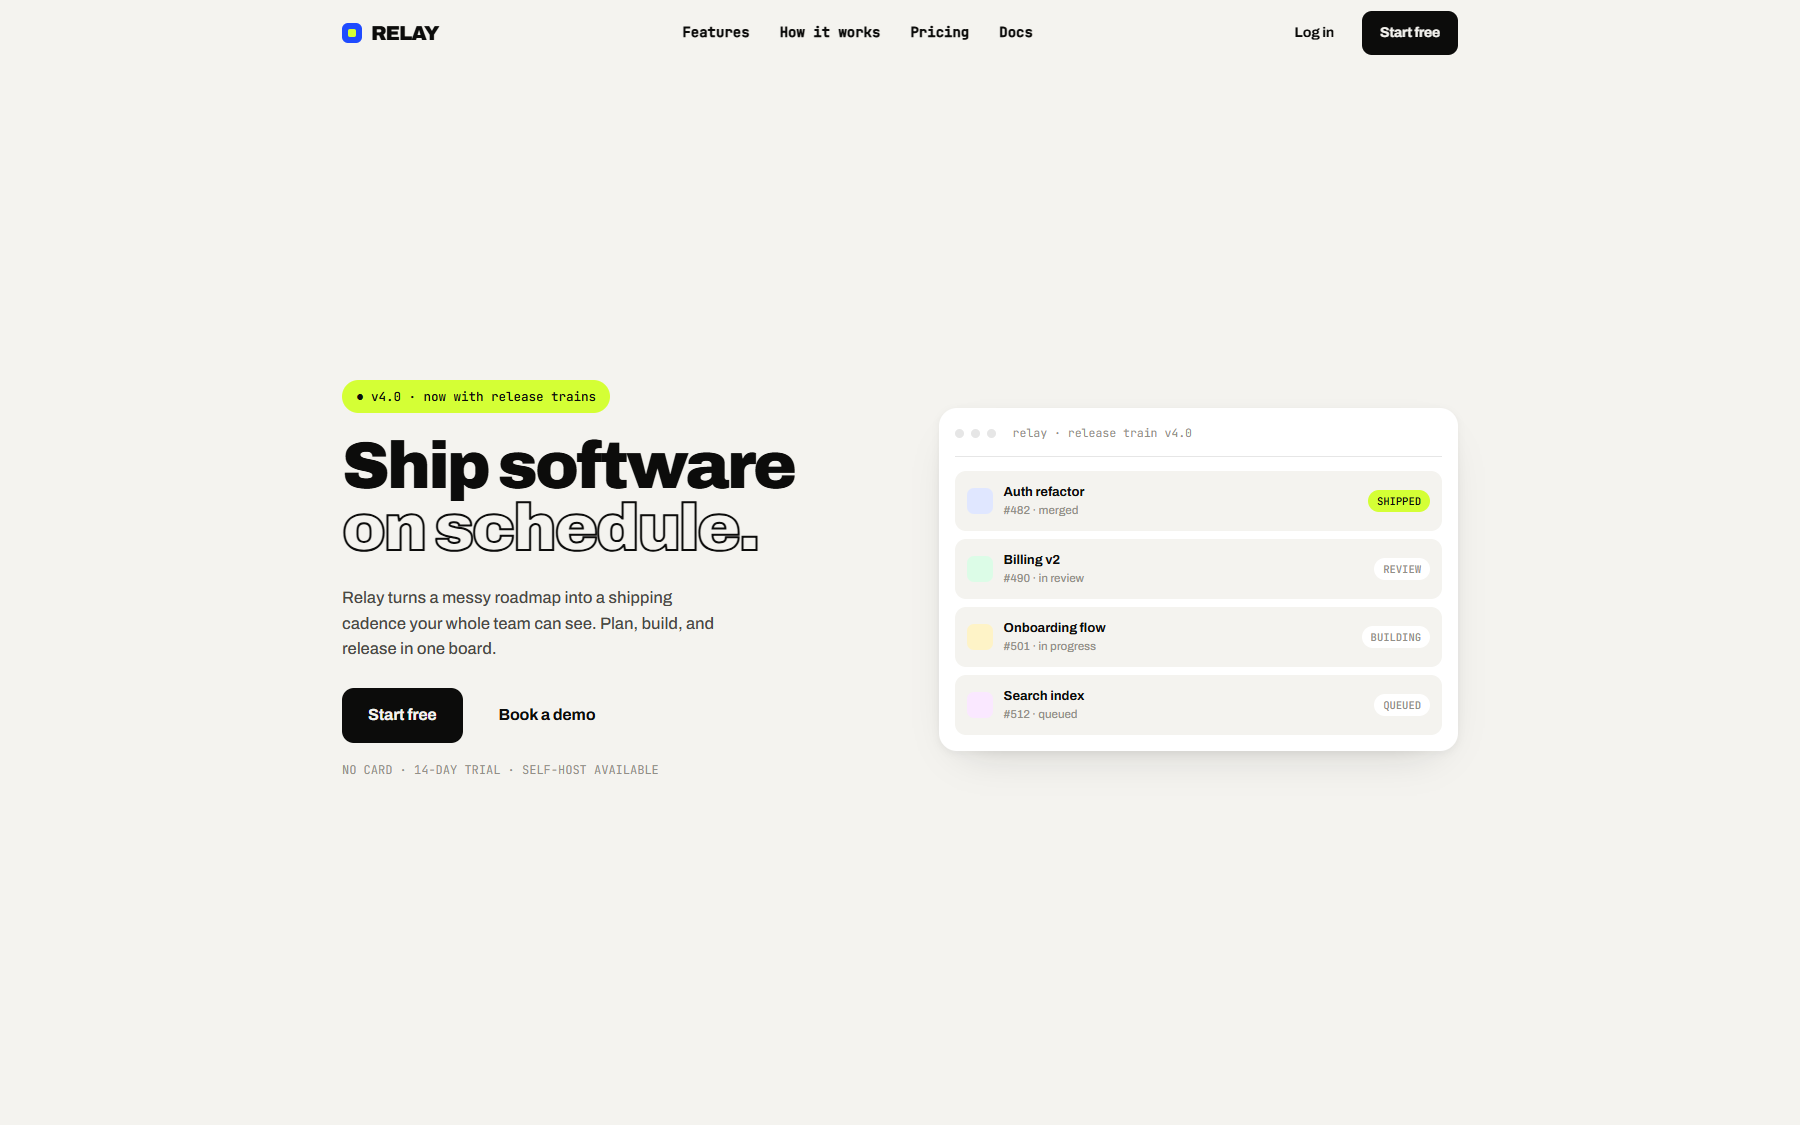
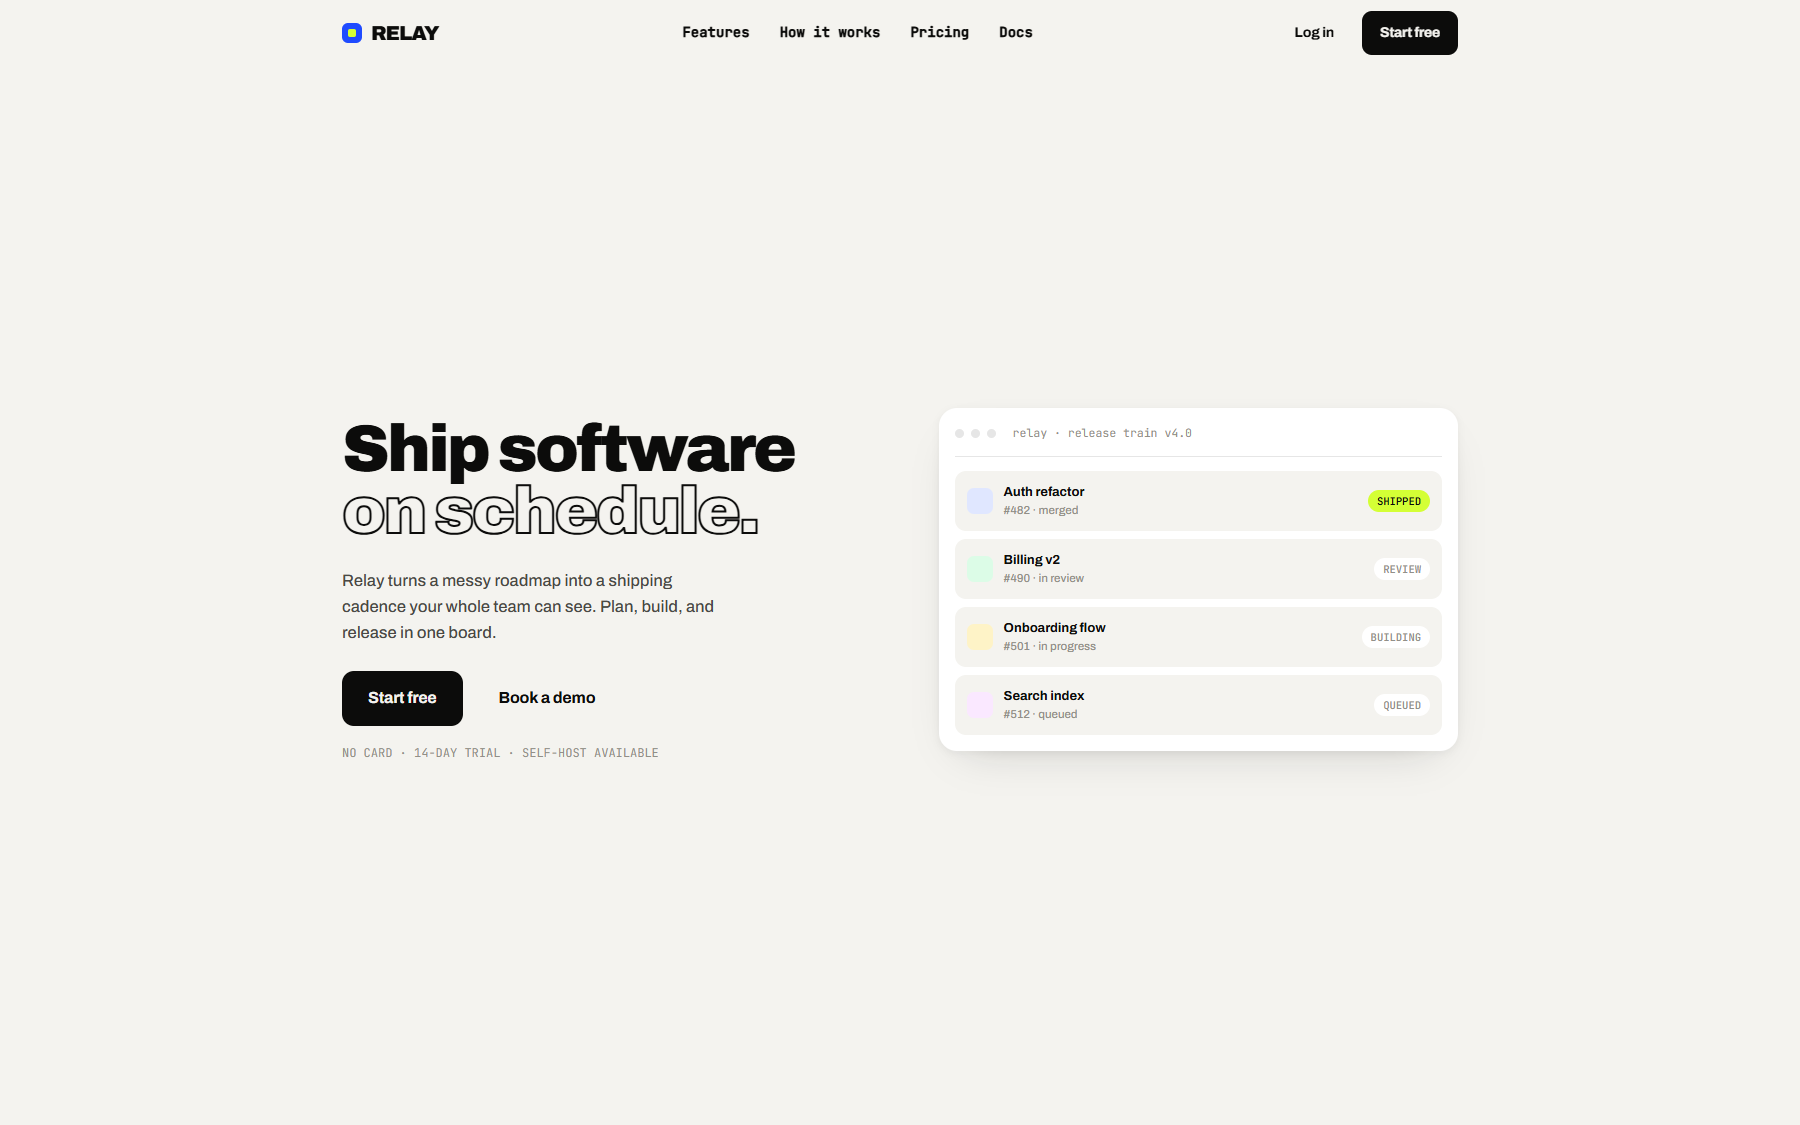
Remove announcement pills, label lines and em dashes across all templates; add TEMPLATE-STYLE.md

Changed region(s): [[0.1867, 0.3111, 0.4667, 0.6844]]

diff --git a/templates/pricing.html b/templates/pricing.html
@@ -3,7 +3,7 @@
 <head>
 <meta charset="UTF-8" />
 <meta name="viewport" content="width=device-width, initial-scale=1.0" />
-<title>Pricing — Section template</title>
+<title>Pricing | Section template</title>
 <meta name="description" content="A clean pricing section: monthly/yearly toggle, three tiers and a highlighted plan." />
 <link rel="preconnect" href="https://fonts.googleapis.com">
 <link rel="preconnect" href="https://fonts.gstatic.com" crossorigin>
@@ -38,7 +38,6 @@
     display:inline-flex;align-items:center;gap:7px;font-size:12px;font-weight:600;
     letter-spacing:.12em;text-transform:uppercase;color:var(--blue);margin-bottom:16px;
   }
-  .eyebrow i{width:6px;height:6px;border-radius:50%;background:var(--blue)}
   h2{font-weight:800;letter-spacing:-.04em;line-height:1.07;font-size:clamp(30px,4.4vw,52px);max-width:19ch;margin:0 auto}
   .sub{color:var(--body);font-size:clamp(14px,1.5vw,17px);line-height:1.65;max-width:52ch;margin:16px auto 0}
 
@@ -117,9 +116,9 @@
 <div class="wrap">
 
   <div class="head">
-    <span class="eyebrow"><i></i>Pricing</span>
+    <span class="eyebrow">Pricing</span>
     <h2>Simple pricing that scales with you</h2>
-    <p class="sub">Start free, upgrade when it clicks. No hidden fees, cancel any time — every plan includes the full editor and unlimited projects.</p>
+    <p class="sub">Start free, upgrade when it clicks. No hidden fees, cancel any time, and every plan includes the full editor and unlimited projects.</p>
 
     <div class="toggle" data-mode="monthly" id="toggle">
       <span class="slider"></span>

diff --git a/templates/pricing-relay.html b/templates/pricing-relay.html
@@ -3,7 +3,7 @@
 <head>
 <meta charset="UTF-8" />
 <meta name="viewport" content="width=device-width, initial-scale=1.0" />
-<title>Relay Pricing — Section template</title>
+<title>Relay Pricing | Section template</title>
 <meta name="description" content="A per-seat pricing section: three tiers, a highlighted plan and a clear feature list." />
 <link rel="preconnect" href="https://fonts.googleapis.com">
 <link rel="preconnect" href="https://fonts.gstatic.com" crossorigin>
@@ -43,8 +43,8 @@
   .btn--solid:hover{background:var(--blue)}
 
   section{padding:92px 0}
-  .label{font-family:'JetBrains Mono';font-size:12.5px;font-weight:500;letter-spacing:.08em;text-transform:uppercase;color:var(--dim);display:flex;align-items:center;gap:12px;margin-bottom:24px}
-  .label::before{content:"";width:30px;height:2px;background:var(--blue)}
+  .label{font-family:'JetBrains Mono';font-size:12.5px;font-weight:500;letter-spacing:.08em;text-transform:uppercase;color:var(--dim);margin-bottom:24px}
+  
   h2.sec{font-size:clamp(30px,4.4vw,54px);max-width:19ch;font-weight:900}
   .lede{margin-top:18px;color:var(--ink-2);font-size:16.5px;max-width:52ch}
 
@@ -80,7 +80,7 @@
   <div class="wrap">
     <p class="label">Pricing</p>
     <h2 class="sec">Simple, per-seat, no surprises.</h2>
-    <p class="lede">Start free for solo work. Pay per seat only when your team grows — cancel any time, no contracts.</p>
+    <p class="lede">Start free for solo work. Pay per seat only when your team grows, cancel any time, no contracts.</p>
 
     <div class="plans">
       <div class="plan">

diff --git a/templates/hero-lumen.html b/templates/hero-lumen.html
@@ -3,7 +3,7 @@
 <head>
 <meta charset="UTF-8" />
 <meta name="viewport" content="width=device-width, initial-scale=1.0" />
-<title>Lumen Hero — Section template</title>
+<title>Lumen Hero | Section template</title>
 <meta name="description" content="An editorial hero: serif display type, warm accent and a quiet browser mock." />
 <link rel="preconnect" href="https://fonts.googleapis.com">
 <link rel="preconnect" href="https://fonts.gstatic.com" crossorigin>
@@ -138,7 +138,6 @@
 <section class="hero">
   <div class="container hero__grid">
     <div>
-      <a href="#" class="badge"><span class="badge__dot"></span> v2.0, six pages, one token file</a>
       <h1 class="display">A landing kit<br>that stays <em>quiet.</em></h1>
       <p class="lede">Editorial typography, a disciplined token system, and no visual noise. Change one file and every page re-themes.</p>
       <div class="hero__cta">
@@ -171,8 +170,8 @@
   function setTheme(name){
     root.setAttribute('data-theme', name);
     icos.forEach(function(s){ s.classList.toggle('show', s.dataset.ico === name); });
-    btn.title = 'Theme: ' + name + ' — click to change';
-    btn.setAttribute('aria-label', 'Theme: ' + name + ' — click to change');
+    btn.title = 'Theme: ' + name + ' (click to change)';
+    btn.setAttribute('aria-label', 'Theme: ' + name + ' (click to change)');
   }
   btn.addEventListener('click', function(){
     var cur = root.getAttribute('data-theme') || 'dark';

diff --git a/templates/relay.html b/templates/relay.html
@@ -63,7 +63,7 @@
     padding: 40px 0 72px;
   }
   .hero__wrap{ width: 100%; display: grid; grid-template-columns: 1.02fr .98fr; gap: 56px; align-items: center; }
-  .hero__tag{display:inline-flex;align-items:center;gap:9px;font-family:'JetBrains Mono';font-size:12.5px;font-weight:500;padding:7px 14px;background:var(--lime);border-radius:999px}
+  
   .hero__grid{margin-top:22px}
   .hero h1{font-size:clamp(36px,4.6vw,66px);line-height:.94;font-weight:900}
   .hero h1 .outline{-webkit-text-stroke:2px var(--ink);color:transparent}
@@ -94,8 +94,8 @@
 
   /* ---------- SECTIONS ---------- */
   section{padding:92px 0}
-  .label{font-family:'JetBrains Mono';font-size:12.5px;font-weight:500;letter-spacing:.08em;text-transform:uppercase;color:var(--dim);display:flex;align-items:center;gap:12px;margin-bottom:24px}
-  .label::before{content:"";width:30px;height:2px;background:var(--blue)}
+  .label{font-family:'JetBrains Mono';font-size:12.5px;font-weight:500;letter-spacing:.08em;text-transform:uppercase;color:var(--dim);margin-bottom:24px}
+  
   h2.sec{font-size:clamp(30px,4.4vw,54px);max-width:19ch;font-weight:900}
 
   /* stats, no boxes, just numbers with air */
@@ -199,7 +199,6 @@
 <section class="hero">
   <div class="wrap hero__wrap">
     <div>
-      <span class="hero__tag">● v4.0 · now with release trains</span>
       <div class="hero__grid">
         <h1>Ship software<br><span class="outline">on schedule.</span></h1>
       </div>

diff --git a/templates/hero-relay.html b/templates/hero-relay.html
@@ -3,7 +3,7 @@
 <head>
 <meta charset="UTF-8" />
 <meta name="viewport" content="width=device-width, initial-scale=1.0" />
-<title>Relay Hero — Section template</title>
+<title>Relay Hero | Section template</title>
 <meta name="description" content="An editorial hero section: mono type, lime accent, outline headline and a product mock." />
 <link rel="preconnect" href="https://fonts.googleapis.com">
 <link rel="preconnect" href="https://fonts.gstatic.com" crossorigin>
@@ -62,7 +62,7 @@
     padding:40px 0 72px;
   }
   .hero__wrap{width:100%;display:grid;grid-template-columns:1.02fr .98fr;gap:56px;align-items:center}
-  .hero__tag{display:inline-flex;align-items:center;gap:9px;font-family:'JetBrains Mono';font-size:12.5px;font-weight:500;padding:7px 14px;background:var(--lime);border-radius:999px}
+  
   .hero__grid{margin-top:22px}
   .hero h1{font-size:clamp(36px,4.6vw,66px);font-weight:900}
   .hero h1 .outline{-webkit-text-stroke:2px var(--ink);color:transparent}
@@ -111,7 +111,6 @@
 <section class="hero">
   <div class="wrap hero__wrap">
     <div>
-      <span class="hero__tag">● v4.0 · now with release trains</span>
       <div class="hero__grid">
         <h1>Ship software<br><span class="outline">on schedule.</span></h1>
       </div>

diff --git a/templates/hero.html b/templates/hero.html
@@ -3,7 +3,7 @@
 <head>
 <meta charset="UTF-8" />
 <meta name="viewport" content="width=device-width, initial-scale=1.0" />
-<title>Hero — Section template</title>
+<title>Hero | Section template</title>
 <meta name="description" content="A clean hero section template: white background, tight type, dual CTA and a product mock." />
 <link rel="preconnect" href="https://fonts.googleapis.com">
 <link rel="preconnect" href="https://fonts.gstatic.com" crossorigin>
@@ -164,11 +164,10 @@
   </nav>
 
   <div style="margin-top:clamp(48px,7vw,96px)">
-    <span class="eyebrow"><span class="dot"></span>New <span class="sep">·</span> <b>Realtime sync is live</b></span>
 
     <h1>Ship your ideas faster than ever</h1>
 
-    <p class="lede">Formal is the workspace that keeps your notes, tasks and docs in one calm place — so your team stops switching tabs and starts finishing work.</p>
+    <p class="lede">Formal is the workspace that keeps your notes, tasks and docs in one calm place, so your team stops switching tabs and starts finishing work.</p>
 
     <div class="cta-row">
       <a href="#" class="btn btn--dark">

diff --git a/templates/hush.html b/templates/hush.html
@@ -107,7 +107,7 @@
   section{padding:104px 0}
   .head{max-width:640px;margin-bottom:48px}
   .head.center{margin-inline:auto;text-align:center}
-  .eyebrow{display:inline-block;font-size:13px;font-weight:800;letter-spacing:.1em;text-transform:uppercase;color:var(--violet);background:var(--violet-tint);padding:6px 14px;border-radius:999px;margin-bottom:18px}
+  .eyebrow{display:block;font-size:13px;font-weight:800;letter-spacing:.1em;text-transform:uppercase;color:var(--violet);margin-bottom:18px}
   .head h2{font-size:clamp(28px,4vw,46px)}
   .head p{margin-top:16px;color:var(--fg-muted);font-size:18px}
 
@@ -204,7 +204,6 @@
 <section class="hero">
   <div class="blob b1"></div><div class="blob b2"></div><div class="blob b3"></div>
   <div class="wrap hero__in">
-    <span class="pill"><span class="dot"></span>Hush 2.0 is here</span>
     <h1>Write without<br>the <span class="hl">noise.</span></h1>
     <p class="lede">A calm place to think on the page. No toolbars, no notifications, no streak you're afraid to break, just you and the words.</p>
     <div class="hero__cta">

diff --git a/index.html b/index.html
@@ -49,7 +49,7 @@
   </div>
   <div class="container hero__content">
     <h1>Landing page<br>collections for <span style="color:var(--fg-dim)">builders</span></h1>
-    <p>Browse by type — landing pages, heroes, pricing and more. Every screen is hand-built, real code, no stock screenshots.</p>
+    <p>Browse by type | landing pages, heroes, pricing and more. Every screen is hand-built, real code, no stock screenshots.</p>
     <div class="hero__cta">
       <a href="#collections" class="btn btn--primary btn--lg">Browse collections</a>
       <a href="/all" class="btn btn--ghost btn--lg">View all templates</a>
@@ -138,7 +138,7 @@
     })
     .catch(function () {
       grid.innerHTML = ''; empty.hidden = false;
-      empty.querySelector('p').textContent = 'Could not load templates.json — run this folder from a local server.';
+      empty.querySelector('p').textContent = 'Could not load templates.json | run this folder from a local server.';
     });
 })();
 </script>

diff --git a/category.html b/category.html
@@ -107,7 +107,7 @@
         empty.querySelector('p').textContent = 'That collection doesn\u2019t exist.';
         return;
       }
-      document.title = col.name + ' — Atlas';
+      document.title = col.name + ' | Atlas';
       document.getElementById('title').textContent = col.name;
       all = (data.templates || []).filter(function (t) { return t.collection === id; });
       document.getElementById('subtitle').textContent = all.length + ' template' + (all.length === 1 ? '' : 's') + (col.desc ? ' · ' + col.desc : '');
@@ -115,7 +115,7 @@
     })
     .catch(function () {
       grid.innerHTML = ''; empty.hidden = false;
-      empty.querySelector('p').textContent = 'Could not load templates.json — run this folder from a local server.';
+      empty.querySelector('p').textContent = 'Could not load templates.json | run this folder from a local server.';
     });
 })();
 </script>

diff --git a/templates/hero-nova.html b/templates/hero-nova.html
@@ -3,7 +3,7 @@
 <head>
 <meta charset="UTF-8" />
 <meta name="viewport" content="width=device-width, initial-scale=1.0" />
-<title>Nova Hero — Section template</title>
+<title>Nova Hero | Section template</title>
 <meta name="description" content="A dark developer-tool hero: mono type, terminal mock and a single blue accent." />
 <link rel="preconnect" href="https://fonts.googleapis.com">
 <link rel="preconnect" href="https://fonts.gstatic.com" crossorigin>
@@ -112,7 +112,6 @@
 
 <section class="hero" style="padding-bottom:0">
   <div class="wrap hero__inner">
-    <span class="pill"><b>New</b> · Nova 2.0, now with repo-wide context</span>
     <h1>The AI that<br>ships <span class="grad">with you.</span></h1>
     <p class="lede">Nova reads your codebase, runs the tests, and opens the pull request. You stay in flow, it handles the rest.</p>
     <div class="hero__cta">

diff --git a/assets/js/detail.js b/assets/js/detail.js
@@ -1,5 +1,5 @@
 /* ============================================================
-   DETAIL — read ?id= from the URL and render one template
+   DETAIL | read ?id= from the URL and render one template
    ============================================================ */
 
 (function () {
@@ -18,7 +18,7 @@
   }
 
   function notFound() {
-    document.title = 'Not found — Atlas';
+    document.title = 'Not found | Atlas';
     main.innerHTML =
       '<div class="container notfound">' +
         '<h2>Template not found</h2>' +
@@ -28,7 +28,7 @@
   }
 
   function render(t, colName, colId) {
-    document.title = t.name + ' — Atlas';
+    document.title = t.name + ' | Atlas';
     var backHref = colId ? ('category?id=' + encodeURIComponent(colId)) : '/';
     var backLabel = colName ? ('← ' + colName) : '← All templates';
     main.innerHTML =

diff --git a/assets/css/gallery.css b/assets/css/gallery.css
@@ -1,5 +1,5 @@
 /* ============================================================
-   GALLERY — clean white catalogue, saasframe-inspired
+   GALLERY | clean white catalogue, saasframe-inspired
    ============================================================ */
 
 :root {
@@ -156,7 +156,7 @@ p { margin: 0; }
 .tiles span img { width: 40px; height: 40px; }
 @keyframes bob { 0%,100% { transform: translateY(0) rotate(var(--r,0deg)) } 50% { transform: translateY(-14px) rotate(var(--r,0deg)) } }
 
-/* positions — clustered toward the edges, like a frame */
+/* positions | clustered toward the edges, like a frame */
 .tiles .t1 { top: 13%; left: 7%;  --r:-6deg; animation-delay: 0s; }
 .tiles .t2 { top: 38%; left: 5%;  --r:4deg;  animation-delay: 1.1s; }
 .tiles .t3 { top: 66%; left: 8%;  --r:-3deg; animation-delay: 2.2s; }
